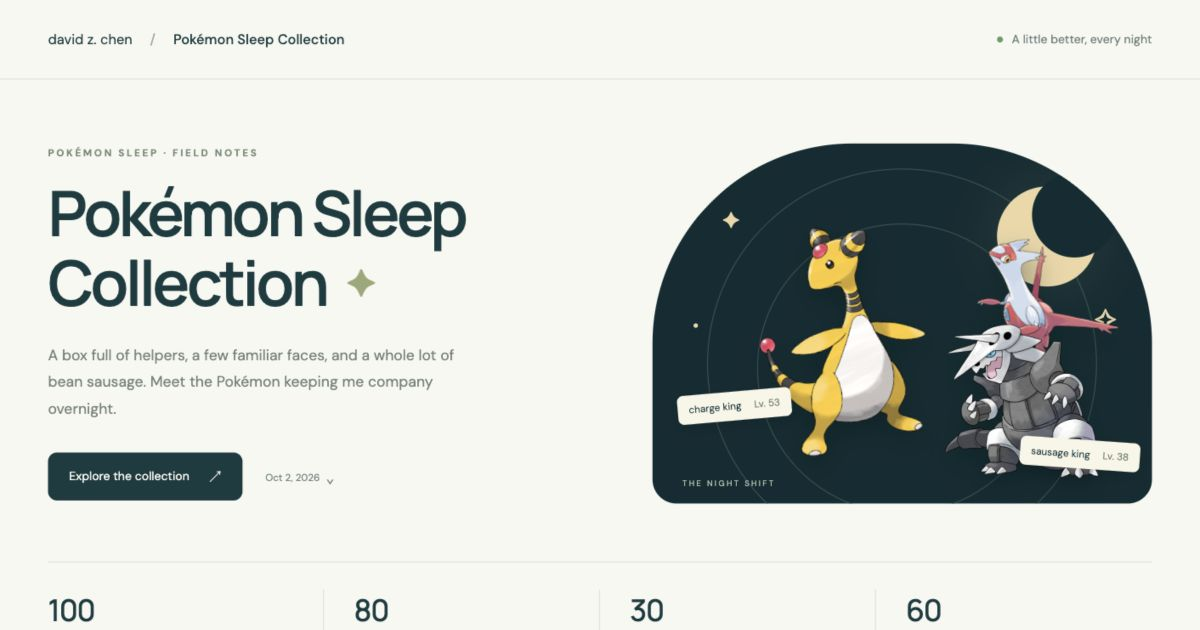
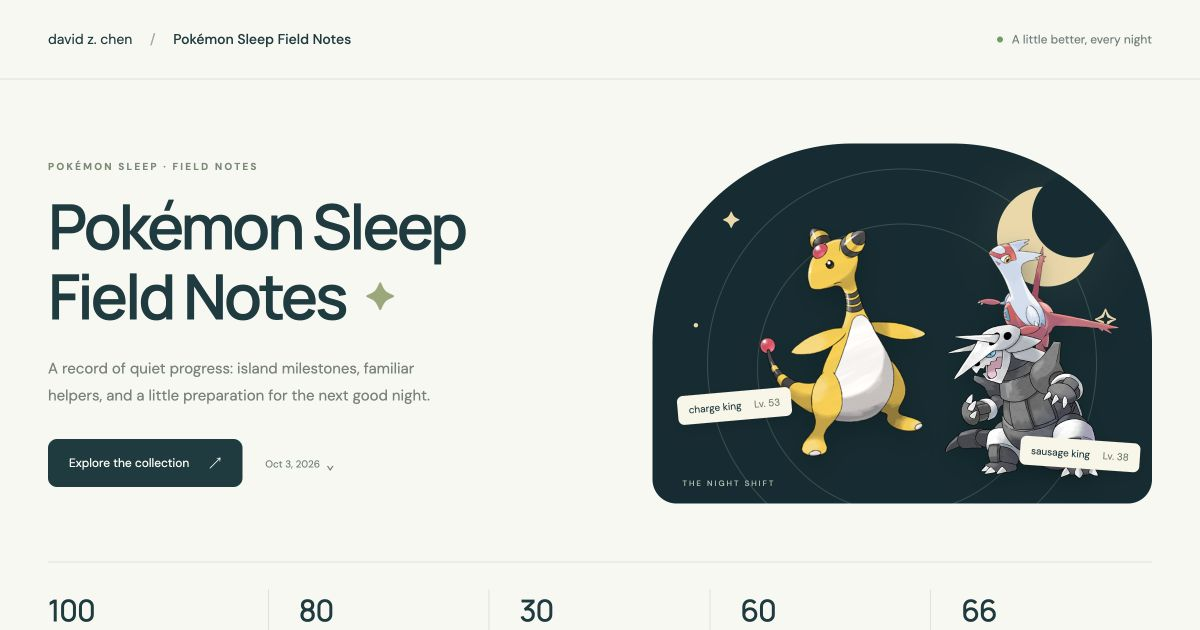
Rename Pokémon Sleep site to Field Notes (#40)

diff --git a/pokemon-sleep/index.html b/pokemon-sleep/index.html
@@ -3,20 +3,20 @@
     <head>
         <meta charset="utf-8" />
         <meta name="viewport" content="width=device-width, initial-scale=1" />
-        <title>David’s Pokémon Sleep Collection</title>
+        <title>David’s Pokémon Sleep Field Notes</title>
         <meta
             name="description"
-            content="Meet David’s Pokémon Sleep collection. Browse Pokémon, ingredients, skills, and the little details that make each helper unique."
+            content="David’s Pokémon Sleep Field Notes: island milestones, researcher rank, familiar helpers, and supplies for the next good night."
         />
         <link rel="canonical" href="https://davidzlchen.com/pokemon-sleep/" />
         <meta property="og:type" content="website" />
-        <meta property="og:title" content="David’s Pokémon Sleep Collection" />
-        <meta property="og:description" content="A box full of helpers, a few familiar faces, and a whole lot of bean sausage. Meet the Pokémon keeping me company overnight." />
+        <meta property="og:title" content="David’s Pokémon Sleep Field Notes" />
+        <meta property="og:description" content="A record of quiet progress: island milestones, familiar helpers, and a little preparation for the next good night." />
         <meta property="og:url" content="https://davidzlchen.com/pokemon-sleep/" />
-        <meta property="og:image" content="https://davidzlchen.com/pokemon-sleep/social-preview.jpg" />
+        <meta property="og:image" content="https://davidzlchen.com/pokemon-sleep/social-preview.jpg?v=field-notes" />
         <meta property="og:image:width" content="1200" />
         <meta property="og:image:height" content="630" />
-        <meta property="og:image:alt" content="David’s Pokémon Sleep Collection, featuring Ampharos, Latias, and Aggron." />
+        <meta property="og:image:alt" content="David’s Pokémon Sleep Field Notes, featuring Ampharos, Latias, and Aggron." />
         <meta name="twitter:card" content="summary_large_image" />
         <meta name="theme-color" content="#172c32" />
         <link rel="icon" href="/pokemon-sleep/moon.svg" type="image/svg+xml" />
@@ -29,7 +29,7 @@
         <header class="nav">
             <a class="home" href="/"
                 >david z. chen <span>/</span>
-                <strong>Pokémon Sleep Collection</strong></a
+                <strong>Pokémon Sleep Field Notes</strong></a
             >
             <span class="nav-note"><span class="live-dot"></span> A little better, every night</span>
         </header>
@@ -38,14 +38,13 @@
                 <div class="hero-copy">
                     <p class="eyebrow">POKÉMON SLEEP · FIELD NOTES</p>
                     <h1>
-                        Pokémon Sleep<br />Collection<span class="spark"
+                        Pokémon Sleep<br />Field Notes<span class="spark"
                             >✦</span
                         >
                     </h1>
                     <p class="intro">
-                        A box full of helpers, a few familiar faces, and a whole
-                        lot of bean sausage. Meet the Pokémon keeping me company
-                        overnight.
+                        A record of quiet progress: island milestones, familiar
+                        helpers, and a little preparation for the next good night.
                     </p>
                     <div class="hero-footer">
                         <a href="#collection" class="button"
@@ -53,7 +52,7 @@
                         >
                         <div class="snapshot-picker">
                             <label>
-                                <span id="snapshot" class="snapshot">Loading collection…</span>
+                                <span id="snapshot" class="snapshot">Loading field notes…</span>
                                 <span class="snapshot-chevron" aria-hidden="true">⌄</span>
                                 <select id="history-select" aria-label="Roster snapshot" disabled><option>Loading snapshots…</option></select>
                             </label>
@@ -218,7 +217,7 @@
         <footer>
             <a href="/">Back to david z. chen ↗</a>
             <p>
-                An unofficial personal collection. Pokémon artwork © Pokémon /
+                An unofficial personal research journal. Pokémon artwork © Pokémon /
                 Nintendo / Creatures / GAME FREAK, via
                 <a href="https://github.com/PokeAPI/sprites">PokéAPI</a>.
                 Candy and item artwork via

diff --git a/index.html b/index.html
@@ -6,7 +6,7 @@
         <title>David Z. Chen · Software & side projects</title>
         <meta
             name="description"
-            content="A little corner of the internet for David Z. Chen’s software, side projects, and interests. Explore JustSkiing, SkiGuessr, and Pokémon Sleep Collection."
+            content="A little corner of the internet for David Z. Chen’s software, side projects, and interests. Explore JustSkiing, SkiGuessr, and Pokémon Sleep Field Notes."
         />
         <meta name="theme-color" content="#203b40" />
         <link rel="icon" href="/favicon.svg" type="image/svg+xml" />
@@ -277,12 +277,12 @@
                     <a
                         class="project"
                         href="/pokemon-sleep/"
-                        aria-label="Browse Pokémon Sleep Collection"
+                        aria-label="Browse Pokémon Sleep Field Notes"
                     >
                         <div class="cover sleep-cover" aria-hidden="true">
                             <div class="mini-header">
                                 <span class="mini-logo"
-                                    >Pokémon Sleep Collection</span
+                                    >Pokémon Sleep Field Notes</span
                                 ><span class="mini-status"
                                     >The night shift</span
                                 >
@@ -311,21 +311,21 @@
                         </div>
                         <div class="project-copy">
                             <div class="project-title">
-                                <h3>Pokémon Sleep Collection</h3>
+                                <h3>Pokémon Sleep Field Notes</h3>
                                 <span class="project-arrow" aria-hidden="true"
                                     >↗</span
                                 >
                             </div>
                             <p>
-                                My sleepy helpers, all in one place. Browse
-                                their ingredients, skills, and the little
-                                details that make each one unique.
+                                Island milestones, familiar helpers, and
+                                supplies for the next good night. A record
+                                of quiet progress in Pokémon Sleep.
                             </p>
                             <div class="project-footer">
                                 <span class="category"
-                                    ><i></i> Pokémon · Personal
-                                    collections</span
-                                ><span>Meet the helpers</span>
+                                    ><i></i> Pokémon · Research
+                                    journal</span
+                                ><span>Explore the field notes</span>
                             </div>
                         </div>
                     </a>
@@ -372,7 +372,7 @@
                     </article>
                 </div>
             </section>
-            <section class="home-writing" aria-labelledby="writing-title"><p class="eyebrow">LATEST WRITING</p><h2 id="writing-title"><a href="/blog/pokemon-sleep-repository/">From a Pokémon box to a personal database</a></h2><p>How I built the Pokémon Sleep collection with Codex, and a template for making your own.</p><a class="read-post" href="/blog/pokemon-sleep-repository/">Read the build story</a></section>
+            <section class="home-writing" aria-labelledby="writing-title"><p class="eyebrow">LATEST WRITING</p><h2 id="writing-title"><a href="/blog/pokemon-sleep-repository/">From a Pokémon box to a personal database</a></h2><p>How I built the Pokémon Sleep field notes with Codex, and a template for making your own.</p><a class="read-post" href="/blog/pokemon-sleep-repository/">Read the build story</a></section>
             <section id="about" class="about" aria-labelledby="about-title">
                 <div class="about-intro">
                     <p class="eyebrow">A LITTLE ABOUT THIS CORNER</p>

diff --git a/blog/pokemon-sleep-repository/index.html b/blog/pokemon-sleep-repository/index.html
@@ -6,9 +6,9 @@
 <p>The Christmas event gave me a reason to get my collection into a useful format. I wanted to analyze the Pokémon I already had and decide which ones to invest in: where to put my EXP, candy, and Dream Shards, and which helpers were worth building a team around.</p>
 <p>The game makes that surprisingly difficult to catalog. The ingredients, subskills, levels, and other details are spread across individual Pokémon screens. I wanted to compare my whole box without repeatedly opening each helper and trying to remember what I’d just seen.</p>
 <p>So the first step was a personal database: the Pokémon I own, their ingredients, subskills, XP, and the details that make each helper different. Getting that information together gives me something I can search and use for analysis as I plan for the event.</p>
-<p>The result is <a href="/pokemon-sleep/">my Pokémon Sleep Collection</a>. You can browse helpers, search by a name, ingredient, or skill, filter by specialty, and open a Pokémon’s details. Supplies live alongside the roster. Saved snapshots let you revisit earlier captures, and an individual helper’s link stays attached to the snapshot it came from.</p>
+<p>The result is <a href="/pokemon-sleep/">my Pokémon Sleep Field Notes</a>. You can browse helpers, search by a name, ingredient, or skill, filter by specialty, and open a Pokémon’s details. Island achievements, researcher rank, and supplies live alongside the roster. Saved snapshots let you revisit earlier captures, and an individual helper’s link stays attached to the snapshot it came from.</p>
 <figure class="article-figure"><a href="/blog/pokemon-sleep-repository/images/collection.jpg" aria-label="View screenshot at full size"><img src="/blog/pokemon-sleep-repository/images/collection.jpg" width="1440" height="1140" alt="The searchable Pokémon box with specialty filters and helper cards showing ingredients, skills, and nature effects." loading="lazy" decoding="async"></a><figcaption>The collection puts each helper’s ingredients, skills, and nature effects together. Select the image to view it at full size.</figcaption></figure>
-<p>It’s a personal collection database, rather than a complete encyclopedia of every Pokémon or a live connection to my account.</p>
+<p>It’s a personal research journal built from saved account snapshots, with island milestones, supplies, and a collection of helpers.</p>
 <h2 id="progress">A record of progress over time</h2>
 <p>I also wanted to see how my collection changes. How much sleep EXP did my helpers gain this week? How many Dream Shards did I earn? How far have I moved toward the Pokémon I want to build?</p>
 <p>A single export shows where I am today. Taking snapshots over time gives me a record I can come back to, so I don’t have to rely on memory or a folder full of screenshots. The aim is to make the slow accumulation of progress visible, and use it to make better investment decisions.</p>

diff --git a/README.md b/README.md
@@ -1,14 +1,14 @@
 # David Z. Chen
 
 A personal landing page and project collection, hosted on Vercel. The homepage
-features JustSkiing, SkiGuessr, Pokémon Sleep Collection, and Hangboard (in progress),
+features JustSkiing, SkiGuessr, Pokémon Sleep Field Notes, and Hangboard (in progress),
 with GitHub and LinkedIn contact links. No résumé is linked.
 
 Serve locally with `python3 -m http.server 8765` and open <http://localhost:8765/>.
 Homepage styles live in `css/home.css`; project artwork uses inline SVG/CSS.
 The site has no build step. Deploy the validated revision with `vercel --prod`.
 
-## Pokémon Sleep collection
+## Pokémon Sleep field notes
 
 `/pokemon-sleep/` is a static, public roster browser. Serve locally with
 `python3 -m http.server 8765` and open <http://localhost:8765/pokemon-sleep/>.
